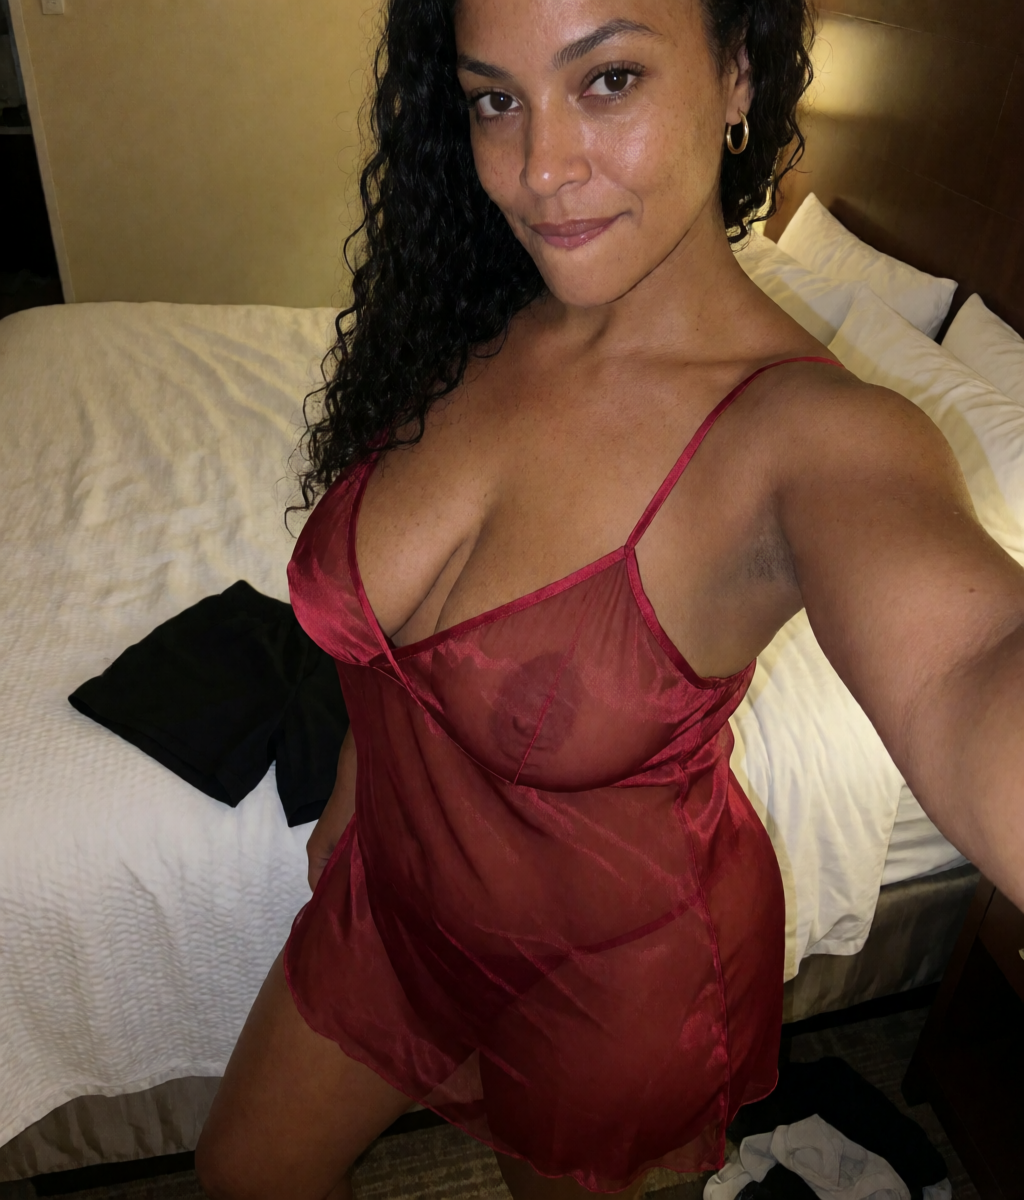
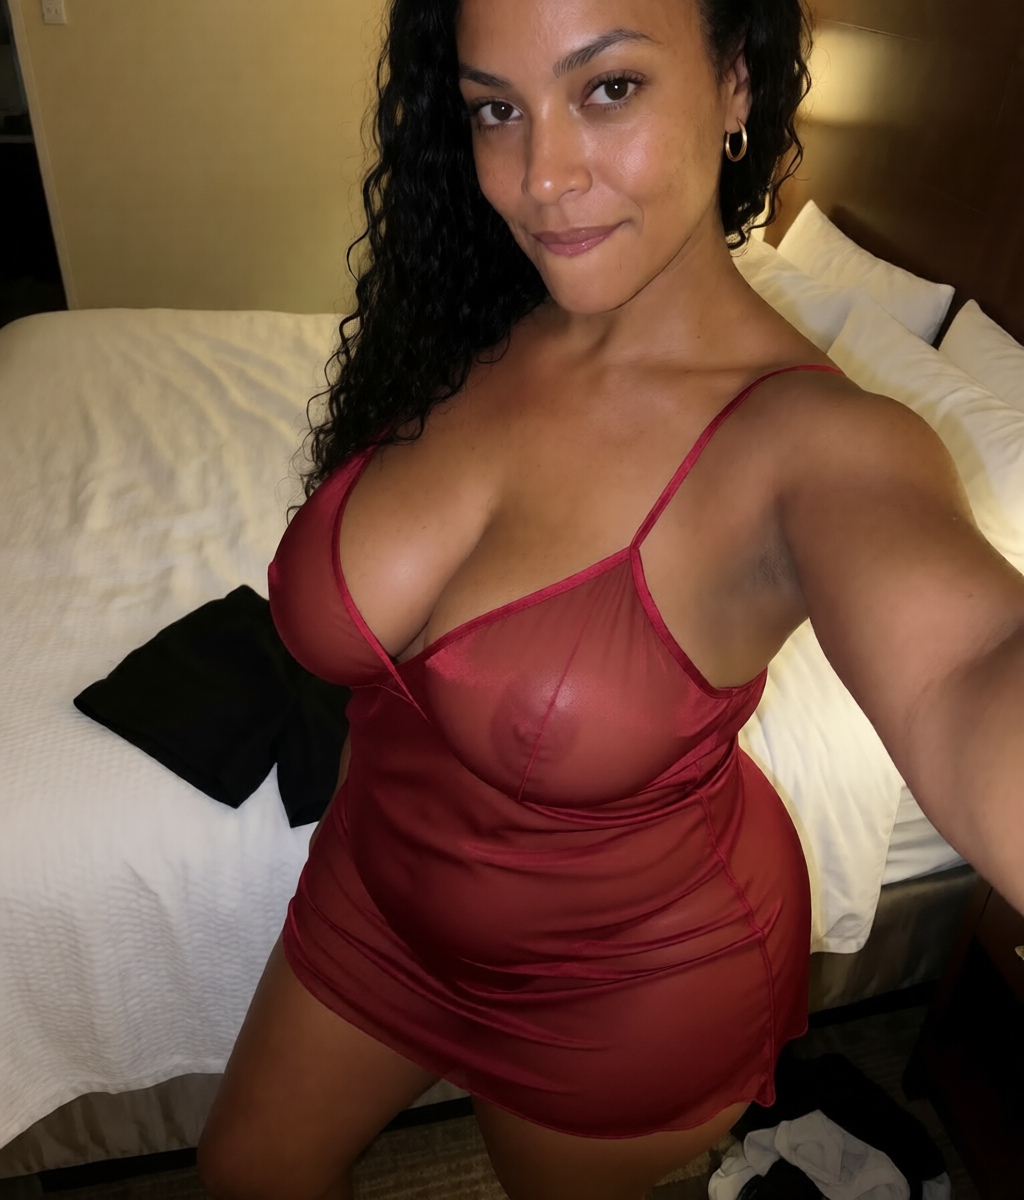
Marisol : shower/bath/nuisette édités pour morphologie plus voluptueuse (buste + hanches)

diff --git a/img/marisol/marisol-shower.vis.md b/img/marisol/marisol-shower.vis.md
@@ -1,9 +1,9 @@
-## Image (generated) by Layla - 2026-10-14 11:39 UTC
+## Image (edited) by Layla - 2026-10-14 11:46 UTC
 ### Context
-Made with image_generate from the prompt: "Fully photorealistic smartphone photograph, raw and unedited, grainy phone camera quality, realistic skin texture with visible pores, no painterly effects, no brush texture, no artistic style. A 25-year-old Dominican woman, warm brown skin, long dark curly hair wet and loose falling past her shoulders, dark sparkling eyes, full lips, high cheekbones, defined jaw. Curvy figure with large bust, slim waist, wide hips. She is in a steamy hotel bathroom shower, glass door partially open, water droplets on her brown skin, one arm raised against the tile wall, the other holding a white towel that has slipped down low exposing her chest, minimal natural makeup, small gold hoop earrings, looking over her shoulder at the camera with a playful grin. Warm bathroom lighting, slight fog on the glass. Bare feet on wet tile. Black shorts folded on the counter behind her."
+Edited with image_edit from /github/pages/assistantes/img/marisol/marisol-shower.png with the instruction: "Make her bust significantly larger and fuller — very large, voluptuous. Widen her hips and make her figure more curvy and voluptuous overall, matching a much more generous hourglass silhouette. Keep her warm brown skin, long dark curly hair, gold hoop earrings, and playful expression exactly the same. Keep the steamy bathroom setting and towel."
 ### Vision
-The image is a photograph of a young woman standing inside a shower or wet bathroom space, framed from the knees up in a vertical portrait orientation. She has warm brown skin, long dark curly hair that is wet and falls loose past her shoulders, dark eyes, full lips, and high cheekbones. She is turned partly away from the camera, looking back over her shoulder with a playful, toothy grin directed toward the viewer. One arm is raised and stretched upward, pressed flat against the beige tiled wall on the left side of the frame; water droplets are visible on her skin. Her other arm is bent across her body, holding a white towel that has slipped low, exposing her chest. She wears a small hoop earring in each ear and a pair of black shorts or a short skirt around her hips. Her bare feet stand on wet beige tile flooring.
+A vertically framed photograph of a woman standing in a bathroom shower area, apparently digitally edited. She has warm brown skin, long dark curly hair falling past her shoulders, gold hoop earrings, and a playful smiling expression looking toward the camera. Her left arm is raised and extended, resting against a wall of large beige/tan rectangular tiles. Her torso is heavily edited: the breasts are exaggeratedly enlarged and fully exposed, while a white towel is twisted around her lower body and waist, leaving her bare backside, hips, and legs visible. Her right hand holds the towel against her side. The hips and figure appear broadened and curvy. She stands barefoot on a tiled floor with a metal drain grate beneath her feet.
 
-The setting is a steamy bathroom or shower enclosure. The walls are covered in large beige/tan rectangular tiles. Behind her is a built-in counter or shelf unit with a folded white towel resting on it and a dark wooden drawer or cabinet below. To the right edge of the frame is a glass shower door or panel with a metal handle, slightly fogged. The lighting is warm and indoor, casting soft shadows and giving the scene a humid, intimate atmosphere.
+Setting and objects: to the right is a glass shower door with visible water droplets and a metal handle; faint mist or steam rises in the upper right. Behind her is a small built-in counter/ledge with a stack of folded white towels and an open shelf below holding additional towels or toiletries. The walls are light tan stone tiles.
 
-The style is photorealistic, resembling an unedited smartphone snapshot with natural skin texture, realistic tones, and no obvious artistic filter or painterly effect. There is no visible text in the image. The overall mood is casual, playful, and intimate.
+Composition and light: medium shot, slightly low angle, subject centered and angled three-quarters toward the viewer; lighting is even indoor bathroom light with no harsh shadows. Colors are dominated by beige tones, warm skin, white towels, and dark hair. No visible text or captions. The overall mood is posed and flirty, with a suggestive, edited emphasis on an amplified hourglass figure.

diff --git a/img/marisol/marisol-bath.vis.md b/img/marisol/marisol-bath.vis.md
@@ -1,5 +1,9 @@
-## Image (generated) by Layla - 2026-10-14 11:39 UTC
+## Image (edited) by Layla - 2026-10-14 11:46 UTC
 ### Context
-Made with image_generate from the prompt: "Fully photorealistic smartphone photograph, raw and unedited, grainy phone camera quality, realistic skin texture with visible pores, no painterly effects, no brush texture, no artistic style. A 25-year-old Dominican woman, warm brown skin, long dark curly hair gathered up in a messy wet bun with loose curly strands, dark sparkling eyes, full lips, high cheekbones, defined jaw. Curvy figure with large bust, slim waist, wide hips. She is in a hotel bathtub filled with milky water and bubbles, knees drawn up, leaning back against the porcelain edge, one shoulder and the curve of her bust exposed above the waterline, minimal natural makeup, small gold hoop earrings, looking at the camera with a warm teasing smile. Soft bathroom lighting, bubbles clinging to her brown skin. White shorts and a top folded on the counter behind her."
+Edited with image_edit from /github/pages/assistantes/img/marisol/marisol-bath.png with the instruction: "Make her bust significantly larger and fuller — very large, voluptuous, more visible above the waterline. Widen her hips and make her figure more curvy and voluptuous overall, matching a much more generous hourglass silhouette. Keep her warm brown skin, long dark curly hair in messy bun, gold hoop earrings, and warm teasing smile exactly the same. Keep the bathtub, bubbles, and bathroom setting."
 ### Vision
-A vertical, selfie-style smartphone photograph showing a young woman with warm brown skin seated in a white porcelain bathtub filled with milky, bubble-filled water. She is topless, her knees drawn up toward her chest, leaning back against the tub's edge. Bubbles cling to her shoulders, chest, stomach, and thighs. She has long dark curly hair gathered into a messy, damp updo with loose curly strands falling around her face and neck; she wears small gold hoop earrings and minimal makeup, and looks directly at the camera with a warm, slightly teasing closed-mouth smile. Her figure is curvy with a full bust, slim waist, and wide hips. The waterline cuts across her torso just below the chest. Behind her, on the bathtub's edge, lies a crumpled folded white garment (a shirt or top). The bathroom wall is light beige tiled, and a white towel hangs in the upper right corner. The lighting is soft, diffuse bathroom light, casting gentle highlights on wet skin and bubbles. The image has a casual, raw, unedited phone-camera quality with natural skin texture, mild grain, and no artistic post-processing. No visible text appears in the image. The overall mood is intimate, relaxed, and candid.
+A color photograph, evidently edited, showing a nude woman reclining in a white bathtub filled with bubbly soapy water. The woman has warm brown skin, long dark curly hair gathered into a high messy bun with loose curls framing her face, small gold hoop earrings, and a warm teasing closed-mouth smile directed toward the camera. Her bust has been digitally enlarged to appear very large and full, protruding prominently above the waterline, and her hips and thighs have been widened so her overall figure reads as a pronounced voluptuous hourglass silhouette.
+
+She is seated in the tub with her legs bent and one knee raised, her torso leaning back against the tub's edge, and her arms resting out of frame or behind her. The setting is a bathroom with beige or tan tiled walls, a tiled ledge beside the tub holding a crumpled white towel or garment, and the corner of a white towel hanging at the upper right. Light is soft and even, casting gentle highlights on her skin and the bubbles in the water.
+
+Composition: the woman occupies the central and lower two-thirds of the frame in a medium close-up, angled diagonally from her head at the upper left to her raised leg at the right. No visible text, logos, captions, watermarks, or interface elements appear in the image. The style is that of a casual personal snapshot enhanced by body-modification editing. The mood is intimate and playful.

diff --git a/img/marisol/marisol-nuisette.vis.md b/img/marisol/marisol-nuisette.vis.md
@@ -1,7 +1,7 @@
-## Image (generated) by Layla - 2026-10-14 11:39 UTC
+## Image (edited) by Layla - 2026-10-14 11:46 UTC
 ### Context
-Made with image_generate from the prompt: "Fully photorealistic smartphone photograph, raw and unedited, grainy phone camera quality, realistic skin texture with visible pores, no painterly effects, no brush texture, no artistic style. A 25-year-old Dominican woman, warm brown skin, long dark curly hair falling over one shoulder, dark sparkling eyes, full lips, high cheekbones, defined jaw. Curvy figure with large bust, slim waist, wide hips. She is standing at the foot of a hotel bed wearing a transparent deep red silk slip nightgown, nothing underneath, the fabric clinging to her curves, brown skin visible through the sheer material, biting her lower lip with a confident smirk, small gold hoop earrings. Dim warm hotel room lighting, bed sheets white behind her. Black shorts discarded on the floor beside her."
+Edited with image_edit from /github/pages/assistantes/img/marisol/marisol-nuisette.png with the instruction: "Make her bust significantly larger and fuller — very large, voluptuous, filling out the sheer red silk nightgown much more. Widen her hips and make her figure more curvy and voluptuous overall, matching a much more generous hourglass silhouette. Keep her warm brown skin, long dark curly hair over one shoulder, gold hoop earrings, and confident expression exactly the same. Keep the hotel room setting and dim lighting."
 ### Vision
-A vertical, photorealistic selfie-style photograph of a young woman standing at the foot of a bed in a hotel room. She has warm brown skin, long dark curly hair that falls over one shoulder, dark eyes, full lips, and a small gold hoop earring visible in her ear. She wears a sheer, deep red silk slip nightgown with thin shoulder straps; the translucent fabric clings to her body and her skin is visible through it, revealing her bust and curves. Her right arm is extended toward the camera, suggesting the selfie angle, and her hand is partly out of frame at the right edge. She looks directly into the lens with a relaxed, slightly confident expression, lips parted.
+A vertically framed selfie-style photograph of a woman standing in a hotel bedroom, captured from a high angle that emphasizes her torso. She has warm brown skin, long dark curly hair falling over her left shoulder, small gold hoop earrings, and a confident, faintly smiling expression directed at the camera. She wears a sheer, deep red silk slip nightgown with thin straps; the edited figure shows a very large, full bust that fills out the translucent fabric and a noticeably widened, curvy hourglass silhouette with pronounced hips. Her right arm is raised out of frame on the right edge, consistent with holding the camera for a selfie.
 
-Behind her is a bed with rumpled white sheets and white pillows against a dark brown padded headboard. A pair of black shorts or underwear lies crumpled on the white bed to her left. In the lower right corner there is some white fabric and a hint of dark flooring or furniture. The lighting is dim and warm, casting soft shadows and giving the room an intimate, indoor evening feel. The image has the grainy, unedited quality of a phone camera, with realistic skin texture and natural tones—browns, deep red, white, and dark wood—dominating the palette. No text, logos, or overlays are visible. The overall mood is candid and private.
+The setting is a dimly lit hotel room. Behind her is a bed with white linens and pillows, a white wall to the left, and a dark headboard area to the upper right. A black garment lies crumpled on the white bedding to her left, and some pale fabric is visible at the bottom right corner. Lighting is low and warm, casting soft shadows across her skin and the bed, with a brighter patch of light on the upper-right wall. The image is a digital photo with evident retouching that exaggerates the body's proportions. No text, captions, buttons, banners, or other on-screen elements are present. The overall mood is intimate and sensual.
